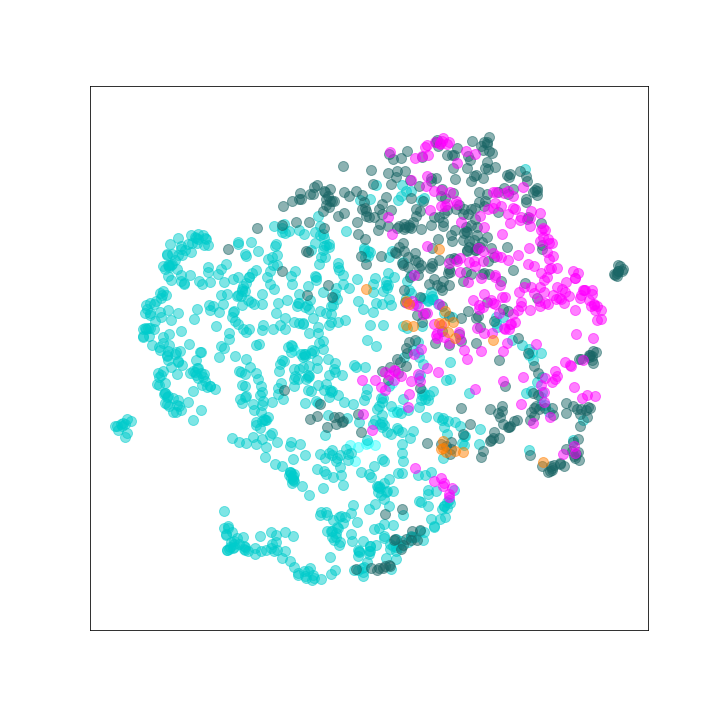
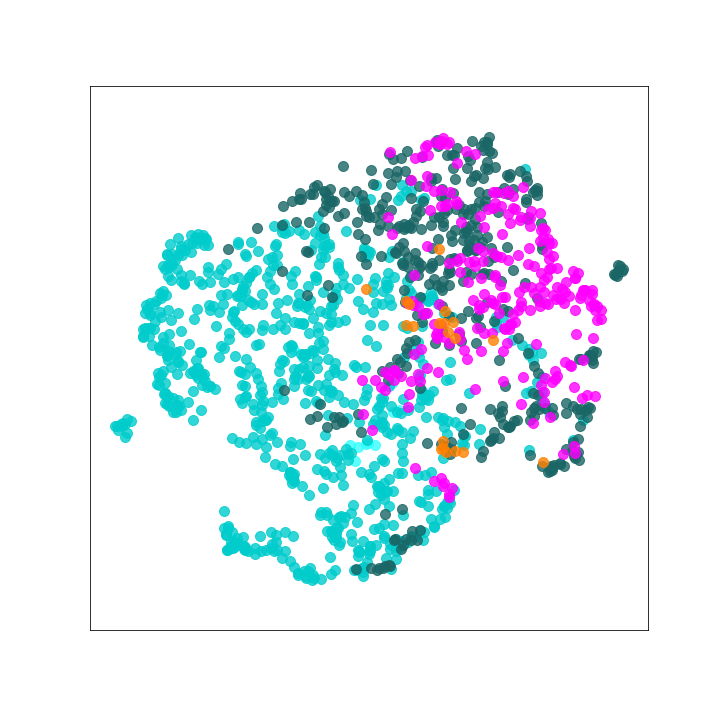
Adjusted umap alpha

Changed region(s): [[0.1833, 0.1833, 0.8556, 0.825], [0.8556, 0.3667, 0.8861, 0.3972], [0.1528, 0.5806, 0.1833, 0.6111]]

diff --git a/figure_UMAP_ephys_features_Philip/umap_feature_Philip.py b/figure_UMAP_ephys_features_Philip/umap_feature_Philip.py
@@ -163,7 +163,7 @@ def plot_umap(embedding_df,labels_df, title='', s = 100, save_name = None, ax = 
 
 #Plot Inhibitory cells, Simulation
 plot_umap(inh_sim_embedding,inh_ephys_sim, title='', s = 100, save_name = 'umap_feature_inh_sim', ax = None, fontsize = 24,
-              alpha_val = 0.5, colors = inh_colors, classes = inh_celltype_list)
+              alpha_val = 0.8, colors = inh_colors, classes = inh_celltype_list)
 
 #Plot Inhibitory cells, Experiment
 plot_umap(inh_exp_embedding,inh_ephys_exp, title='', s = 100, save_name = 'umap_feature_inh_exp', ax = None, fontsize = 24,
@@ -171,7 +171,7 @@ plot_umap(inh_exp_embedding,inh_ephys_exp, title='', s = 100, save_name = 'umap_
 
 #Plot Excitatory cells, Simulation
 plot_umap(exc_sim_embedding,exc_ephys_sim, title='', s = 100, save_name = 'umap_feature_exc_sim', ax = None, fontsize = 24,
-              alpha_val = 0.5, colors = exc_colors, classes = exc_celltype_list)
+              alpha_val = 0.8, colors = exc_colors, classes = exc_celltype_list)
 
 #Plot Excitatory cells, Experiment
 plot_umap(exc_exp_embedding,exc_ephys_exp, title='', s = 100, save_name = 'umap_feature_exc_exp', ax = None, fontsize = 24,
